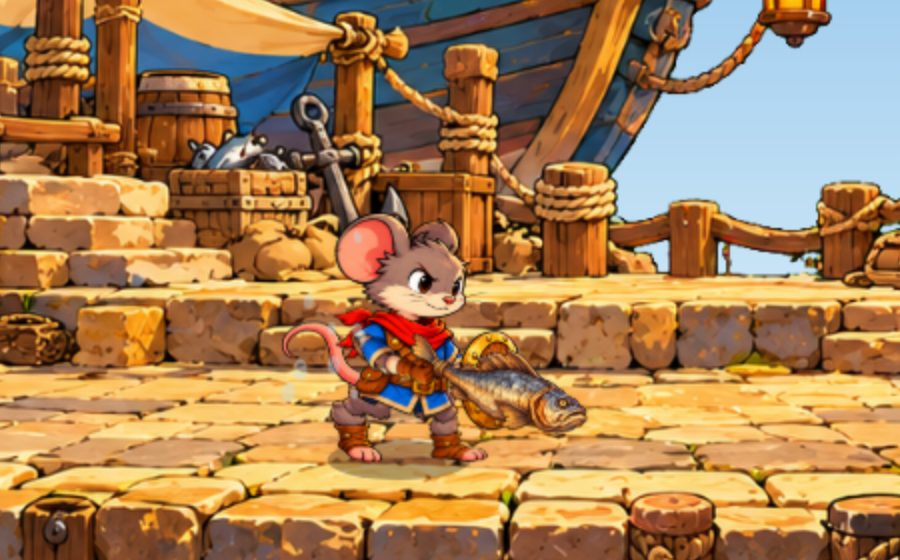
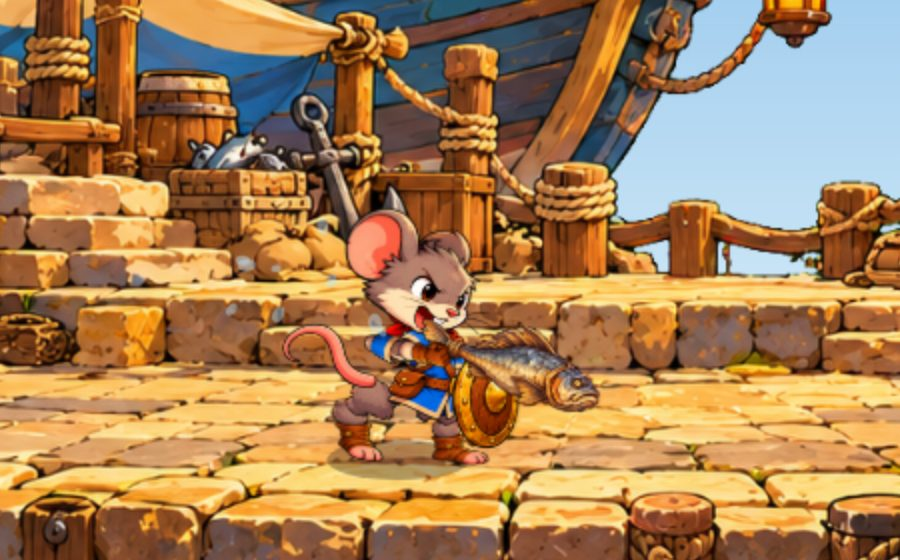
T017 round 2: floppy fish (drawn bent in slices: gravity sag + wobble flop), tests, lab sliders; build v2

Changed region(s): [[0.2489, 0.3643, 0.6844, 0.85], [0.2489, 0.4554, 0.3111, 0.4857]]

diff --git a/src/render/weapon-feel.js b/src/render/weapon-feel.js
@@ -5,6 +5,9 @@
 // squash: each hit the holder lands squashes the weapon along its length (`.sx`) and fattens it (`.sy`), then it
 //   stretches back past rest and settles over `time` s. Its clock only runs while his swing moves on, so it holds squashed
 //   through the hit-stop freeze and springs back as he comes round.
+// bend: the weapon is drawn in `segs` slices from the grip to its far end, each turned a little more (a floppy body):
+//   it sags `droop` degrees (end to end) when held level, none when hanging straight, and takes `flop` of the wobble as
+//   bend instead of a turn at the hand. Drawn by rig.js from bendStrips (mem.flop = the wobble share in degrees).
 import { bus } from '../core/events.js';
 
 const impacts = new WeakMap();   // attacker -> hits landed so far (from 'hit' events)
@@ -41,7 +44,9 @@ export function feelLayer(rig, f, joints, time, mem) {
   if (F.wobble) {
     const hand = handAngle(rig, slot, joints) * Math.sign(joints.sx ?? 1), dy = joints.dy ?? 0;
     mem.wob ??= { a: 0, v: 0, t: time, hand, hv: 0, dy, yv: 0 };
-    out[slot] += stepWobble(F.wobble, mem.wob, hand, dy, time);
+    const a = stepWobble(F.wobble, mem.wob, hand, dy, time), flop = F.bend?.flop ?? 0;
+    out[slot] += a * (1 - flop);
+    mem.flop = a * flop;
   }
   if (F.squash) {
     const n = impacts.get(f) ?? 0, dt = Math.max(0, Math.min(0.1, time - (mem.sqT ?? time)));
@@ -50,6 +55,29 @@ export function feelLayer(rig, f, joints, time, mem) {
     Object.assign(mem, { hits: n, sqT: time, sqMf: f.mf });
     const S = F.squash, e = mem.sqAge === undefined ? 0 : S.amount * squashCurve(mem.sqAge / S.time);
     out[`${slot}.sx`] *= 1 - e; out[`${slot}.sy`] *= 1 + e * 0.8;
+  }
+  return out;
+}
+
+// Bend in image degrees for a held weapon drawn with image matrix m: gravity sag (nose toward the floor, whatever way
+// it points or is mirrored) plus the wobble's flop share.
+export function bendOf(B, m, flop = 0) {
+  const det = Math.sign(m[0] * m[3] - m[1] * m[2]) || 1, level = Math.cos(Math.atan2(m[1], m[0]));
+  return det * B.droop * level + flop;
+}
+
+// Slices of an image bent by `deg` degrees in total, from the pivot's x to its right edge (the part behind the grip stays
+// stiff): [{ sx, sw, t }] = source x and width of each slice and its matrix in image px (apply after the part's matrix).
+export function bendStrips(w, h, pivot, deg, segs) {
+  const out = [{ sx: 0, sw: pivot[0] + 1, t: [1, 0, 0, 1, 0, 0] }], step = (deg * Math.PI) / 180 / segs, len = (w - pivot[0]) / segs;
+  let t = [1, 0, 0, 1, 0, 0];
+  for (let i = 0; i < segs; i++) {
+    const x0 = pivot[0] + i * len, c = Math.cos(step), s = Math.sin(step);
+    // t = t * (translate(x0, py) * rotate(step) * translate(-x0, -py))
+    const r = [c, s, -s, c, x0 - c * x0 + s * pivot[1], pivot[1] - s * x0 - c * pivot[1]];
+    t = [t[0] * r[0] + t[2] * r[1], t[1] * r[0] + t[3] * r[1], t[0] * r[2] + t[2] * r[3], t[1] * r[2] + t[3] * r[3],
+      t[0] * r[4] + t[2] * r[5] + t[4], t[1] * r[4] + t[3] * r[5] + t[5]];
+    out.push({ sx: x0, sw: Math.min(len + 1.5, w - x0), t });   // 1.5 px overlap: no seams between slices
   }
   return out;
 }

diff --git a/src/render/rig.js b/src/render/rig.js
@@ -6,7 +6,7 @@ import { rigJoints, drawLayer, squatLayer } from './rig-pose.js';
 import { squatOf } from './jump-squat.js';
 import { gripLayout } from './rig-grip.js';
 import { braceLayer } from './brace.js';
-import { feelLayer } from './weapon-feel.js';
+import { feelLayer, bendOf, bendStrips } from './weapon-feel.js';
 import { ITEMS } from '../data/items/index.js';
 
 const RES = 2;                                   // buffer px per screen px (keeps parts sharp)
@@ -115,11 +115,16 @@ export function drawRig(ctx, f, rig, assets, time, flash = 0, pose) {
   const g = buf.getContext('2d');
   g.setTransform(1, 0, 0, 1, 0, 0); g.clearRect(0, 0, buf.width, buf.height);
   g.imageSmoothingQuality = 'high';
-  for (const { img, m, line } of gripLayout(rig, joints, mem.swap, heldOf(f, rig, mem.sheathed), f)) {
+  const held = heldOf(f, rig, mem.sheathed), B = !pose && held?.part && held.kit.feel?.bend;   // T017: a floppy held weapon
+  for (const { name, img, m, line, p: part } of gripLayout(rig, joints, mem.swap, held, f)) {
     g.setTransform(RES, 0, 0, RES, BOX.ox * RES, BOX.oy * RES);
     if (line) { g.strokeStyle = '#3a2a1e'; g.lineWidth = 0.8; g.beginPath(); line.forEach(([x, y], i) => (i ? g.lineTo(x, y) : g.moveTo(x, y))); g.stroke(); continue; }
     g.transform(...m);
-    g.drawImage(assets.get(img), 0, 0);
+    const im = assets.get(img);
+    if (!B || name !== held.slot) { g.drawImage(im, 0, 0); continue; }
+    for (const { sx, sw, t } of bendStrips(im.width, im.height, part.pivot, bendOf(B, m, mem.flop), B.segs)) {
+      g.save(); g.transform(...t); g.drawImage(im, sx, 0, sw, im.height, sx, 0, sw, im.height); g.restore();
+    }
   }
 
   const p = { ...poseOf(f, time) };

diff --git a/src/data/lab-schema.js b/src/data/lab-schema.js
@@ -143,6 +143,9 @@ export const LAB_SCHEMA = [
       { path: 'feel.wobble.max', min: 0, max: 60, step: 1, label: 'fish wobble max (deg)' },
       { path: 'feel.squash.amount', min: 0, max: 0.6, step: 0.01, label: 'fish slap squash' },
       { path: 'feel.squash.time', min: 0.1, max: 1.2, step: 0.05, label: 'fish squash time (s)' },
+      { path: 'feel.bend.droop', min: 0, max: 80, step: 1, label: 'fish droop (deg)' },
+      { path: 'feel.bend.flop', min: 0, max: 1, step: 0.05, label: 'fish wobble as bend' },
+      { path: 'feel.bend.segs', min: 1, max: 24, step: 1, label: 'fish bend slices' },
       { path: 'club1.fx.dust', min: 0, max: 20, step: 1, file: 'src/data/moves/plank-club.js', label: 'club1 dust puffs' },
       { path: 'club1.fx.shake', min: 0, max: 10, step: 0.5, file: 'src/data/moves/plank-club.js', label: 'club1 extra shake' },
       { path: 'club2.fx.dust', min: 0, max: 20, step: 1, file: 'src/data/moves/plank-club.js', label: 'club2 dust puffs' },

diff --git a/src/data/items/big-fish.js b/src/data/items/big-fish.js
@@ -9,5 +9,7 @@ export default {
   // feel (T017, view only, render/weapon-feel.js): wobble = a floppy spring on the held fish (period s, damping ratio,
   // gain = share of the hand's change of turn it lags, bob = degrees per px/s of body bob, max degrees);
   // squash = on each slap that lands, squashed by `amount` along its length, then a stretch, settled in `time` s.
-  feel: { wobble: { period: 0.2, damping: 0.16, gain: 0.9, bob: 0.25, max: 28 }, squash: { amount: 0.32, time: 0.45 } },
+  // bend = drawn in `segs` slices that sag `droop` degrees end to end when held level, `flop` = share of the wobble that bends it.
+  feel: { wobble: { period: 0.2, damping: 0.16, gain: 0.9, bob: 0.25, max: 28 }, squash: { amount: 0.32, time: 0.45 },
+    bend: { segs: 10, droop: 30, flop: 0.7 } },
 };

diff --git a/src/config.js b/src/config.js
@@ -3,4 +3,4 @@ export const VIEW = { w: 960, h: 540 };   // internal resolution; CSS scales to 
 export const FPS = 60;                    // sim runs at a fixed 60 steps/sec; all timings are in frames
 export const START_STAGE = 'harbor-run';   // ?stage=harbor-market in the URL loads the single-screen arena
 export const START_HERO = 'mouse-fighter';
-export const BUILD = 't017 weapon feel v1';
+export const BUILD = 't017 weapon feel v2';

diff --git a/docs/MODULES.md b/docs/MODULES.md
@@ -48,7 +48,7 @@ One line per file: what it does and what it exports. **Read this instead of the 
 | `src/render/rig-pose.js` | Rig pose per state/move phase (waves, windup/through/strike, easing, overshoot) and blending from the last drawn pose; part swaps per pose/phase (switch at once, strike swaps last `timing.swapBack` of recovery); optional pose override. A `through` pose's swaps show only mid-swing (`timing.throughSwap`; slash2's one back-view drawing). Channels: joint angles, dx/dy, `sx` whole-body width (-1 mirrored; slash2's mid-spin), per-part `.sx/.sy` stretch and `.order`. Grab poses: `grabbing`, `knee` (from `grab.knee` frames), `throwWind`/`throwWindBack` (mirrors) then `throwRelease`. Weapon `toss` then `tossRelease`; `pickup` = `stow` (sword swept back to the hip) -> `reach` (crouch, boots flat) -> idle. `squatLayer`: joints pulled toward the `jumpSquat` crouch (T014). `grabbed`/`thrown` use the rig's `held` pose if it has one (rats, T011). `drawLayer`: arm-only sword draw (to the `stow` arm and back up over `timing.drawSword`) after a held weapon is thrown or breaks; `mem.sheathed` hides the sword for its first half. A weapon kit move uses the rig move pose named by its `rig` field (club2 -> slash3), unless the rig's `kits[<item id>].moves` has its own (T017); `kits[<id>]` idle/walk lay over the normal ones (club shouldered, fish dangled). A move pose's `hold` = share of the windup held at the top (`tremble` deg arm shake). Pure | `targetPose rigJoints drawLayer squatLayer channelsOf jointsOfRig` |
 | `src/render/rig-grip.js` | Weapon grips (T011): for a held kit whose grip type is in `rig.grips`, swaps the far forearm to a fist, bends `ik.arm` with 2-bone IK (2 passes, keeps the elbow's bend side) so `ik.hand` lands on the kit's `grip2` (spear shaft) or the bow's `nock` pulled back by the draw; `hide`s parts (cutlass while drawing a bow); a drawn bow adds the string (`line` entries) and the shot's arrow nocked. A bow hand only reaches for the string over the first `reachIn` of the draw. Pure Also exports its 2-bone IK (`reach`, `at`) for the brace loop's planted legs | `gripLayout drawOf reach at` |
 | `src/render/brace.js` | Bracing loop while blocking (T015): layered over the rig's blended `block` pose from `rig.brace` data: breath (torso stretch lifts head/shoulders), shield + guard arm lagging the breath, sword ready-grip twitch, hip sway (dx) with both boots kept on their spot by leg IK. Weight 0 outside block and in blockstun, eases in over `fade` frames; sway rests while shuffle-walking (`mem.swayW`). drawRig stores the layered pose in `mem.last` (no pop leaving block). Pure | `braceLayer braceWeight solesOf` |
-| `src/render/weapon-feel.js` | Weapon feel (T017): a held kit's `feel` (items/*.js) on the rig, layered after the other layers: `wobble` = damped spring on the slot joint kicked by the hand's change of turn and the body bob (the fish flops, settles in ~0.5 s); `squash` = each landed hit squashes the weapon along its length then stretches back (clock frozen during hit-stop). Kits without `feel` unchanged. Render memory only; counts hits from `hit` events | `feelLayer stepWobble squashCurve handAngle` |
+| `src/render/weapon-feel.js` | Weapon feel (T017): a held kit's `feel` (items/*.js) on the rig, layered after the other layers: `wobble` = damped spring on the slot joint kicked by the hand's change of turn and the body bob (the fish flops, settles in ~0.5 s); `squash` = each landed hit squashes the weapon along its length then stretches back (clock frozen during hit-stop); `bend` = drawn by rig.js in slices from the grip that sag nose-down by gravity and take part of the wobble (the fish is floppy, not stiff). Kits without `feel` unchanged. Render memory only; counts hits from `hit` events | `feelLayer stepWobble squashCurve handAngle bendOf bendStrips` |
 | `src/render/shots.js` | Arrows in flight: art pointing along the flight, bigger than nocked with a glow and speed streak (`JUICE.shot`), floor shadow | `drawShot drawShotShadow` |
 | `src/render/effects.js` | Slash swooshes (optionally `flat` for level sweeps; `wrap` goes round the body, far side drawn behind via `drawBack`), sparks, rings, damage numbers, dust; block clang (bright sparks toward the attacker, shield-side flash, double ring, then a star glint on the shield rim); grab clinch flash, whoosh trail on a thrown body, big impact burst on `thrownHit` (from events); T017: `move.fx.dust` dust puffs at the target's feet on a hit (`JUICE.impactDust`), `move.fx.drops` water drops off the fish on the swing (`JUICE.drops`) | `createEffects drawSlash` |
 | `src/render/jump-squat.js` | Jump squat look (T014): how crouched (0..1) a fighter is drawn: A's `jumpStart`, legs extending over `JUICE.jumpSquat.rise` frames after take-off (A, B), landing squash (A, B; A since T011); 0 when the def's mode is off/absent. Rig mixes toward its `jumpSquat` pose (`squatLayer`), standee squashes | `squatOf squashOf` |
@@ -102,7 +102,7 @@ Run log fields (one object per run; the player only):
 | `src/data/controls.js` | Key and gamepad bindings |
 | `src/data/moves/*.js` | Move sets: timing, hitbox (or `shot`: an arrow, T011 `rat-bow.js`), damage, knockback, `launch` (knockdown speed), hitstop, shake, pose, fx (`word`: pop-up word; T017 view only: `dust` puffs on hit, `shake` extra, `drops` water on swing); weapon kit moves (`cutlass`, `plank-club`, `big-fish`) add `rig`: which rig move pose they borrow |
 | `src/data/fighters/*.js` + `index.js` | Fighter defs: art, body, stats (RPG hooks), speeds (`move.jumpSquat` = squat frames), `jumpSquatMode` ('off' / 'A' sim squat / 'B' look only; T014, user picked A), `block` (optional: walkSpeed, chip, pushback, stun, attackerPush, hitstop, shake), `grab` + `throw` (optional, the holder's numbers), `throwable` (can be grabbed), `pickup` + `toss` (can pick up floor items and throw a held weapon), `drop` (enemy: weapon left on KO + chance), `kit` (enemy: weapon kit id held in his hands; its moves + ai are his, T011: rat-spearman, rat-archer = rat-raider + kit), `art.hand` (standee weapon spot), moves, AI params. Registry in index |
-| `src/data/items/*.js` + `index.js` | Floor items (T010). Weapon kits: art (img, `px` size, `grip` point, `rest`; two-hand `grip2`; bow `nock` `pull` `reachIn` `tips`), `grip` type (one-hand, two-hand, bow), `durability`, moves + `attack`/`airAttack`, `toss` (damage, spin, feel), `ai` (kit carriers), `feel` (T017, view only: fish `wobble` spring + impact `squash`, render/weapon-feel.js). Food: art, `heal`. Registry `ITEMS`. `rat-spear`, `rat-bow` (T011) are enemy kits, never dropped yet |
+| `src/data/items/*.js` + `index.js` | Floor items (T010). Weapon kits: art (img, `px` size, `grip` point, `rest`; two-hand `grip2`; bow `nock` `pull` `reachIn` `tips`), `grip` type (one-hand, two-hand, bow), `durability`, moves + `attack`/`airAttack`, `toss` (damage, spin, feel), `ai` (kit carriers), `feel` (T017, view only: fish `wobble` spring + impact `squash` + floppy `bend`, render/weapon-feel.js). Food: art, `heal`. Registry `ITEMS`. `rat-spear`, `rat-bow` (T011) are enemy kits, never dropped yet |
 | `src/data/props/*.js` + `index.js` | Breakable props (crate, barrel): art (+ debris), `body` (w, d = depth blocked, h), `hp` (hits), `drops` (id, `{id: weight}` or null). Registry `PROPS` |
 | `src/data/lab-schema.js` | Which data fields the tuning lab shows (`ROOTS` file -> object, `LAB_SCHEMA` sections/sliders, incl. a Stage section for the floor belt + art placement). New tunable = one line here |
 | `src/data/rigs/*.js` + `index.js` | Rat rigs (T011): `rat-raider.js` (+ `GEAR` overlays: hood, helmet, hat, quiver, jerkin, sash) + `rat-raider-poses.js` (crouch stance); `rat-spearman.js` / `rat-archer.js` = that rig + gear + their own arm poses and kit moves (registered whole, poses included). Cutout rigs: parts (image, parent, pivot, attach, rest, scale, order, `swaps` = alternate drawings with offset, optional `hide` parts and `carry` children), `slots` (grip type -> part a held weapon replaces, or `{parent, attach, order}` for a new part), `grips` (T011: per grip type the far-fist swap, `hide`, IK arm/hand/target) and `-poses.js` (stance, idle/walk waves, state poses, move windup/through/strike, `swap: {part: name}` per pose, test poses like `cast`, blend timing). `mouse-fighter-kit-poses.js` (T017): per floor weapon idle/walk/move poses, registered as `kits` on his poses. `mouse-fighter-brace.js` (T015): the bracing loop's numbers (registered as `brace` on the rig). Registry in index |

diff --git a/docs/STATUS.md b/docs/STATUS.md
@@ -49,6 +49,7 @@
 - League of Legends-style hero kits (passive + three cooldown abilities + an ultimate, on top of the basic combo), like Dungeon Fighter Online. User is a big LoL fan. Idea only, for Stage 8 heroes; mind button count.
 
 ## Last session
+2026-10-15 code: T017 round 2 (user: fish "juts out stiff"): the fish is drawn bent in slices from the grip, sagging nose-down by gravity and flopping with the wobble. User: weapons all feel good. Parked for the lead: block shuffle has no footwork (boots pinned while moving in block).
 2026-10-15 code: T017 on branch `t017-weapon-feel` (render only): club shouldered, overhead windup with a held beat, low slam + dust + extra shake; fish dangled with a wobble spring, slap squash (held through hit-stop) + water drops; cutlass shorter wind-back, tighter swooshes. Kit poses in `mouse-fighter-poses.js` `kits`, new `render/weapon-feel.js`, lab section.
 2026-10-15 code: T017 18/18 tests (new tests/weapon-feel.test.mjs); bot runs identical to main (3 seeds x plain/no props/weapon bot). Screens docs/screens/T017/. Human check open: pick up each weapon and fight a wave.
 2026-10-16 lead: wrote T017 (weapon feel pass, render only) to keep Code busy while Art does A010.
